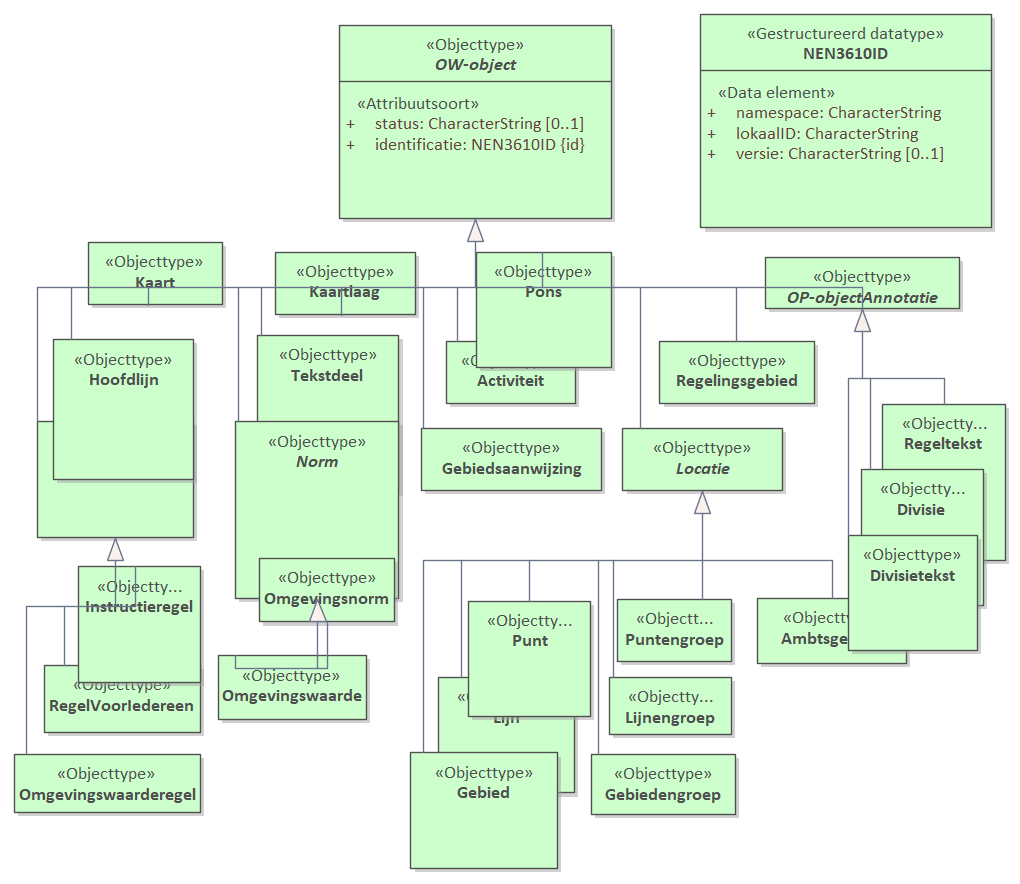
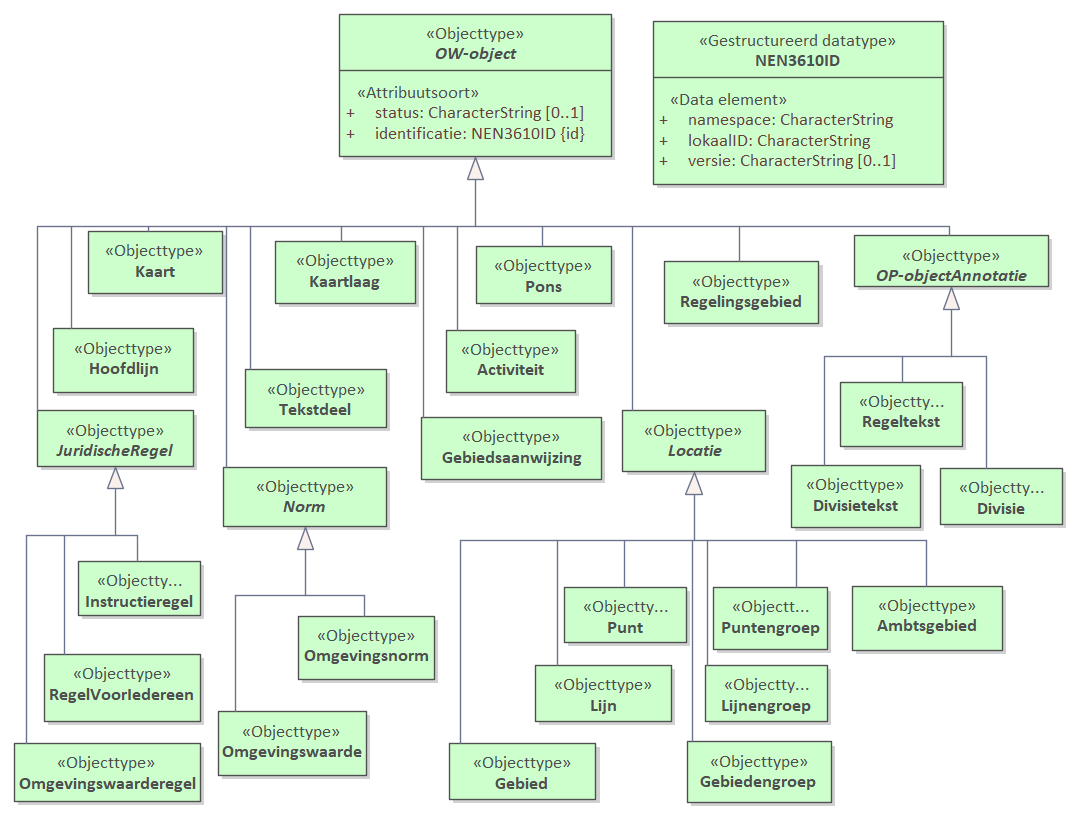
20200601_Oplevering

diff --git a/data/IMOW-cat.respec.html b/data/IMOW-cat.respec.html
@@ -328,7 +328,7 @@
             
             
             
-         </section></section><section id="global_package_OWobject"><h3>Domein   OW-object</h3><section id="EAID_97D11E5C_222E_4885_AD87_2F92616ED77A"><h4>   OW-object - overzicht</h4><div class="imageinfo overview"><figure class="uml-diagram"><img id="EAID_97D11E5C_222E_4885_AD87_2F92616ED77A" src="data/Images/EAID_97D11E5C_222E_4885_AD87_2F92616ED77A.png" usemap="#imagemap-EAID_97D11E5C_222E_4885_AD87_2F92616ED77A" alt="Diagram: Dit diagram toont alle OW-objecten inhet IMOW."><figcaption> ‒ Diagram: OW-object</figcaption></figure><map name="imagemap-EAID_97D11E5C_222E_4885_AD87_2F92616ED77A"><area shape="rect" alt="Divisietekst" coords="848,535,978,651" href="#global_class_Vrijetekststructuur_Divisietekst"><area shape="rect" alt="Divisie" coords="861,469,984,606" href="#global_class_Vrijetekststructuur_Divisie"><area shape="rect" alt="Regeltekst" coords="882,404,1006,561" href="#global_class_Artikelstructuur_Regeltekst"><area shape="rect" alt="OP-objectAnnotatie" coords="765,257,960,309" href="#global_class_OWobject_OPobjectAnnotatie"><area shape="rect" alt="Hoofdlijn" coords="53,339,194,480" href="#global_class_Vrijetekststructuur_Hoofdlijn"><area shape="rect" alt="NEN3610ID" coords="700,14,992,228" href="#global_class_OWobject_NEN3610ID"><area shape="rect" alt="Ambtsgebied" coords="757,598,907,664" href="#global_class_Locatie_Ambtsgebied"><area shape="rect" alt="Gebiedengroep" coords="591,754,736,815" href="#global_class_Locatie_Gebiedengroep"><area shape="rect" alt="Gebied" coords="410,752,558,869" href="#global_class_Locatie_Gebied"><area shape="rect" alt="Puntengroep" coords="617,599,732,662" href="#global_class_Locatie_Puntengroep"><area shape="rect" alt="Punt" coords="468,601,591,717" href="#global_class_Locatie_Punt"><area shape="rect" alt="Lijnengroep" coords="609,677,732,735" href="#global_class_Locatie_Lijnengroep"><area shape="rect" alt="Lijn" coords="438,677,575,793" href="#global_class_Locatie_Lijn"><area shape="rect" alt="Instructieregel" coords="78,566,201,683" href="#global_class_Artikelstructuur_Instructieregel"><area shape="rect" alt="Omgevingswaarde" coords="218,655,367,720" href="#global_class_Artikelstructuur_Omgevingswaarde"><area shape="rect" alt="Omgevingsnorm" coords="259,558,395,622" href="#global_class_Artikelstructuur_Omgevingsnorm"><area shape="rect" alt="Omgevingswaarderegel" coords="14,754,201,813" href="#global_class_Artikelstructuur_Omgevingswaarderegel"><area shape="rect" alt="RegelVoorIedereen" coords="44,665,201,733" href="#global_class_Artikelstructuur_RegelVoorIedereen"><area shape="rect" alt="Regelingsgebied" coords="659,341,815,404" href="#global_class_Artikelstructuur_Regelingsgebied"><area shape="rect" alt="Kaartlaag" coords="275,252,416,315" href="#global_class_Kaart_Kaartlaag"><area shape="rect" alt="Pons" coords="476,252,612,368" href="#global_class_Artikelstructuur_Pons"><area shape="rect" alt="Gebiedsaanwijzing" coords="421,428,602,491" href="#global_class_Artikelstructuur_Gebiedsaanwijzing"><area shape="rect" alt="Norm" coords="235,421,399,599" href="#global_class_Artikelstructuur_Norm"><area shape="rect" alt="Locatie" coords="622,428,783,491" href="#global_class_Locatie_Locatie"><area shape="rect" alt="Tekstdeel" coords="257,335,399,492" href="#global_class_Vrijetekststructuur_Tekstdeel"><area shape="rect" alt="Kaart" coords="88,242,223,305" href="#global_class_Kaart_Kaart"><area shape="rect" alt="Activiteit" coords="446,341,576,404" href="#global_class_Artikelstructuur_Activiteit"><area shape="rect" alt="JuridischeRegel" coords="37,421,194,538" href="#global_class_Artikelstructuur_JuridischeRegel"><area shape="rect" alt="OW-object" coords="339,25,612,219" href="#global_class_OWobject_OWobject"></map><p>
+         </section></section><section id="global_package_OWobject"><h3>Domein   OW-object</h3><section id="EAID_97D11E5C_222E_4885_AD87_2F92616ED77A"><h4>   OW-object - overzicht</h4><div class="imageinfo overview"><figure class="uml-diagram"><img id="EAID_97D11E5C_222E_4885_AD87_2F92616ED77A" src="data/Images/EAID_97D11E5C_222E_4885_AD87_2F92616ED77A.png" usemap="#imagemap-EAID_97D11E5C_222E_4885_AD87_2F92616ED77A" alt="Diagram: Dit diagram toont alle OW-objecten inhet IMOW."><figcaption> ‒ Diagram: OW-object</figcaption></figure><map name="imagemap-EAID_97D11E5C_222E_4885_AD87_2F92616ED77A"><area shape="rect" alt="Divisietekst" coords="791,465,921,528" href="#global_class_Vrijetekststructuur_Divisietekst"><area shape="rect" alt="Divisie" coords="940,468,1063,525" href="#global_class_Vrijetekststructuur_Divisie"><area shape="rect" alt="Regeltekst" coords="840,382,963,447" href="#global_class_Artikelstructuur_Regeltekst"><area shape="rect" alt="OP-objectAnnotatie" coords="854,235,1049,287" href="#global_class_OWobject_OPobjectAnnotatie"><area shape="rect" alt="NEN3610ID" coords="653,21,944,185" href="#global_class_OWobject_NEN3610ID"><area shape="rect" alt="Ambtsgebied" coords="852,586,1003,651" href="#global_class_Locatie_Ambtsgebied"><area shape="rect" alt="Gebiedengroep" coords="687,741,832,803" href="#global_class_Locatie_Gebiedengroep"><area shape="rect" alt="Gebied" coords="449,743,596,800" href="#global_class_Locatie_Gebied"><area shape="rect" alt="Puntengroep" coords="713,587,828,650" href="#global_class_Locatie_Puntengroep"><area shape="rect" alt="Punt" coords="564,587,687,643" href="#global_class_Locatie_Punt"><area shape="rect" alt="Lijnengroep" coords="705,665,828,722" href="#global_class_Locatie_Lijnengroep"><area shape="rect" alt="Lijn" coords="535,665,672,722" href="#global_class_Locatie_Lijn"><area shape="rect" alt="Instructieregel" coords="78,561,201,616" href="#global_class_Artikelstructuur_Instructieregel"><area shape="rect" alt="Omgevingswaarde" coords="218,711,367,776" href="#global_class_Artikelstructuur_Omgevingswaarde"><area shape="rect" alt="Omgevingsnorm" coords="298,616,435,680" href="#global_class_Artikelstructuur_Omgevingsnorm"><area shape="rect" alt="Omgevingswaarderegel" coords="14,743,201,802" href="#global_class_Artikelstructuur_Omgevingswaarderegel"><area shape="rect" alt="RegelVoorIedereen" coords="44,654,201,722" href="#global_class_Artikelstructuur_RegelVoorIedereen"><area shape="rect" alt="Regelingsgebied" coords="664,261,819,324" href="#global_class_Artikelstructuur_Regelingsgebied"><area shape="rect" alt="Kaartlaag" coords="275,241,416,304" href="#global_class_Kaart_Kaartlaag"><area shape="rect" alt="Pons" coords="476,246,612,304" href="#global_class_Artikelstructuur_Pons"><area shape="rect" alt="Gebiedsaanwijzing" coords="421,417,602,480" href="#global_class_Artikelstructuur_Gebiedsaanwijzing"><area shape="rect" alt="Norm" coords="223,467,387,527" href="#global_class_Artikelstructuur_Norm"><area shape="rect" alt="Locatie" coords="622,410,766,472" href="#global_class_Locatie_Locatie"><area shape="rect" alt="Tekstdeel" coords="245,369,387,428" href="#global_class_Vrijetekststructuur_Tekstdeel"><area shape="rect" alt="Hoofdlijn" coords="53,328,194,393" href="#global_class_Vrijetekststructuur_Hoofdlijn"><area shape="rect" alt="Kaart" coords="88,231,223,294" href="#global_class_Kaart_Kaart"><area shape="rect" alt="Activiteit" coords="446,330,576,393" href="#global_class_Artikelstructuur_Activiteit"><area shape="rect" alt="JuridischeRegel" coords="37,410,194,467" href="#global_class_Artikelstructuur_JuridischeRegel"><area shape="rect" alt="OW-object" coords="339,14,612,157" href="#global_class_OWobject_OWobject"></map><p>
                         <p>Dit diagram toont alle OW-objecten inhet IMOW.</p>
                      </p></div></section><section id="EAID_FE9C9DCE_C253_4f81_8D60_DB454C471FF5"><h4>   OP-objectAnnotatie - overzicht</h4><div class="imageinfo overview"><figure class="uml-diagram"><img id="EAID_FE9C9DCE_C253_4f81_8D60_DB454C471FF5" src="data/Images/EAID_FE9C9DCE_C253_4f81_8D60_DB454C471FF5.png" usemap="#imagemap-EAID_FE9C9DCE_C253_4f81_8D60_DB454C471FF5" alt="Diagram: OP-objectAnnotatie is de koppelklasse tussen de OW-objecten behorend bij een regeling en de STOP tekstelementen in die regeling. Hiertoe heeft een OW-objectAnnotatie een 'identificatie' die volgens de NEN3610 systematiek wordt uitgedeeld en een 'wId' die verwijst naar het betreffende tekstelement in STOP. Momenteel zijn er vier types tekstelement in een STOP document die geannoteerd kunnen worden: Artikel, Lid, Divisietekst en Divisie waarbij Artikel en Lid beide met een Regeltekst worden gekoppeld."><figcaption> ‒ Diagram: OP-objectAnnotatie</figcaption></figure><map name="imagemap-EAID_FE9C9DCE_C253_4f81_8D60_DB454C471FF5"><area shape="rect" alt="Divisie" coords="405,486,575,602" href="#global_class_Vrijetekststructuur_Divisie"><area shape="rect" alt="OW-object" coords="168,14,445,208" href="#global_class_OWobject_OWobject"><area shape="rect" alt="Divisietekst" coords="205,484,375,601" href="#global_class_Vrijetekststructuur_Divisietekst"><area shape="rect" alt="Regeltekst" coords="14,484,183,642" href="#global_class_Artikelstructuur_Regeltekst"><area shape="rect" alt="OP-objectAnnotatie" coords="182,261,399,376" href="#global_class_OWobject_OPobjectAnnotatie"></map><p>
                         <p>OP-objectAnnotatie is de koppelklasse tussen de OW-objecten behorend bij een regeling en de STOP  tekstelementen in die regeling. Hiertoe heeft een OW-objectAnnotatie een 'identificatie' die volgens de NEN3610 systematiek wordt uitgedeeld en een 'wId' die verwijst naar het betreffende tekstelement in STOP. </p>
@@ -524,7 +524,7 @@
                </section>
             </section>
             
-         </section></section><section id="global_package_Artikelstructuur"><h3>Domein   Artikelstructuur</h3><section id="EAID_C66AEA1E_A7E2_4ab7_BEAA_00DD0F75A4B2"><h4>   Artikelstructuur - overzicht</h4><div class="imageinfo overview"><figure class="uml-diagram"><img id="EAID_C66AEA1E_A7E2_4ab7_BEAA_00DD0F75A4B2" src="data/Images/EAID_C66AEA1E_A7E2_4ab7_BEAA_00DD0F75A4B2.png" usemap="#imagemap-EAID_C66AEA1E_A7E2_4ab7_BEAA_00DD0F75A4B2" alt="Diagram: De tekst van een regeling Regeling met artikelstructuur bevat een geneste structuur die onder andere Hoofdstukken, Afdelingen, Paragrafen en Subparagrafen kan bevatten. Op het diepste niveau zit de inhoudelijk informatie van de regeling, die inhoud zit in artikelen. Soms is een artikel opgesplitst in leden. In dat geval zit de inhoud in de leden. In de artikelstructuur zitten de annotaties op de artikelen of leden in de vorm van één of meer juridische regels. Een juridische regel is de in een annotatie opgenomen informatie over een regel met juridische werkingskracht. Een juridische regel heeft drie subtypen (RegelVoorIedereen, Instructieregel, Omgevingswaarderegel) die allen specifieke eigenschappen bevatten. Daarnaast zijn er de domeinspecifieke objecten Activiteit voor het annoteren van een activiteit, Gebiedsaanwijzing om een benoemd gebied te duiden, Omgevingswaarde om een gewenste of toelaatbare omgevingswaarde aan een Locatie toe te kennen en een Omgevingsnorm om een waarde als norm aan een Locatie te koppelen. Het Pons-object wordt gebruikt om aan te geven dat een gebied volledig door het permanente deel van het omgevingsplan is ingevuld en niet meer door de ruimtelijke plannen o.b.v. Wro en/of Chw die onderdeel zijn van het tijdelijke deel van het omgevingsplan. Dit kan alleen gebruikt worden bij een omgevingsplan."><figcaption> ‒ Diagram: Artikelstructuur</figcaption></figure><map name="imagemap-EAID_C66AEA1E_A7E2_4ab7_BEAA_00DD0F75A4B2"><area shape="rect" alt="OP-objectAnnotatie" coords="208,14,414,167" href="#global_class_OWobject_OPobjectAnnotatie"><area shape="rect" alt="Pons" coords="190,1480,360,1561" href="#global_class_Artikelstructuur_Pons"><area shape="rect" alt="Regelingsgebied" coords="190,1375,360,1454" href="#global_class_Artikelstructuur_Regelingsgebied"><area shape="rect" alt="ActiviteitLocatieaanduiding" coords="160,735,596,891" href="#global_class_Artikelstructuur_ActiviteitLocatieaanduiding"><area shape="rect" alt="Gebiedsaanwijzing" coords="491,945,839,1146" href="#global_class_Artikelstructuur_Gebiedsaanwijzing"><area shape="rect" alt="Normwaarde" coords="1201,1211,1560,1487" href="#global_class_Artikelstructuur_Normwaarde"><area shape="rect" alt="Norm" coords="1192,629,1499,977" href="#global_class_Artikelstructuur_Norm"><area shape="rect" alt="Omgevingswaarde" coords="1315,1058,1588,1194" href="#global_class_Artikelstructuur_Omgevingswaarde"><area shape="rect" alt="Omgevingsnorm" coords="1007,1063,1268,1200" href="#global_class_Artikelstructuur_Omgevingsnorm"><area shape="rect" alt="Activiteit" coords="72,454,305,621" href="#global_class_Artikelstructuur_Activiteit"><area shape="rect" alt="Locatie" coords="770,1401,1030,1549" href="#global_class_Locatie_Locatie"><area shape="rect" alt="RegelVoorIedereen" coords="457,534,661,601" href="#global_class_Artikelstructuur_RegelVoorIedereen"><area shape="rect" alt="Instructieregel" coords="737,534,1167,747" href="#global_class_Artikelstructuur_Instructieregel"><area shape="rect" alt="Omgevingswaarderegel" coords="1365,534,1599,609" href="#global_class_Artikelstructuur_Omgevingswaarderegel"><area shape="rect" alt="JuridischeRegel" coords="822,185,1082,425" href="#global_class_Artikelstructuur_JuridischeRegel"><area shape="rect" alt="Regeltekst" coords="207,218,416,391" href="#global_class_Artikelstructuur_Regeltekst"></map><p>
+         </section></section><section id="global_package_Artikelstructuur"><h3>Domein   Artikelstructuur</h3><section id="EAID_C66AEA1E_A7E2_4ab7_BEAA_00DD0F75A4B2"><h4>   Artikelstructuur - overzicht</h4><div class="imageinfo overview"><figure class="uml-diagram"><img id="EAID_C66AEA1E_A7E2_4ab7_BEAA_00DD0F75A4B2" src="data/Images/EAID_C66AEA1E_A7E2_4ab7_BEAA_00DD0F75A4B2.png" usemap="#imagemap-EAID_C66AEA1E_A7E2_4ab7_BEAA_00DD0F75A4B2" alt="Diagram: De tekst van een regeling Regeling met artikelstructuur bevat een geneste structuur die onder andere Hoofdstukken, Afdelingen, Paragrafen en Subparagrafen kan bevatten. Op het diepste niveau zit de inhoudelijk informatie van de regeling, die inhoud zit in artikelen. Soms is een artikel opgesplitst in leden. In dat geval zit de inhoud in de leden. In de artikelstructuur zitten de annotaties op de artikelen of leden in de vorm van één of meer juridische regels. Een juridische regel is de in een annotatie opgenomen informatie over een regel met juridische werkingskracht. Een juridische regel heeft drie subtypen (RegelVoorIedereen, Instructieregel, Omgevingswaarderegel) die allen specifieke eigenschappen bevatten. Daarnaast zijn er de domeinspecifieke objecten Activiteit voor het annoteren van een activiteit, Gebiedsaanwijzing om een benoemd gebied te duiden, Omgevingswaarde om een gewenste of toelaatbare omgevingswaarde aan een Locatie toe te kennen en een Omgevingsnorm om een waarde als norm aan een Locatie te koppelen. Het Pons-object wordt gebruikt om aan te geven dat een gebied volledig door het permanente deel van het omgevingsplan is ingevuld en niet meer door de ruimtelijke plannen o.b.v. Wro en/of Chw die onderdeel zijn van het tijdelijke deel van het omgevingsplan. Dit kan alleen gebruikt worden bij een omgevingsplan."><figcaption> ‒ Diagram: Artikelstructuur</figcaption></figure><map name="imagemap-EAID_C66AEA1E_A7E2_4ab7_BEAA_00DD0F75A4B2"><area shape="rect" alt="OP-objectAnnotatie" coords="208,14,414,167" href="#global_class_OWobject_OPobjectAnnotatie"><area shape="rect" alt="Regelingsgebied" coords="190,1375,360,1454" href="#global_class_Artikelstructuur_Regelingsgebied"><area shape="rect" alt="ActiviteitLocatieaanduiding" coords="160,735,596,891" href="#global_class_Artikelstructuur_ActiviteitLocatieaanduiding"><area shape="rect" alt="Gebiedsaanwijzing" coords="491,945,839,1146" href="#global_class_Artikelstructuur_Gebiedsaanwijzing"><area shape="rect" alt="Normwaarde" coords="1201,1211,1560,1487" href="#global_class_Artikelstructuur_Normwaarde"><area shape="rect" alt="Norm" coords="1192,629,1499,977" href="#global_class_Artikelstructuur_Norm"><area shape="rect" alt="Omgevingswaarde" coords="1315,1058,1588,1194" href="#global_class_Artikelstructuur_Omgevingswaarde"><area shape="rect" alt="Omgevingsnorm" coords="1007,1063,1268,1200" href="#global_class_Artikelstructuur_Omgevingsnorm"><area shape="rect" alt="Activiteit" coords="72,454,305,621" href="#global_class_Artikelstructuur_Activiteit"><area shape="rect" alt="Locatie" coords="770,1401,1030,1549" href="#global_class_Locatie_Locatie"><area shape="rect" alt="RegelVoorIedereen" coords="457,534,661,601" href="#global_class_Artikelstructuur_RegelVoorIedereen"><area shape="rect" alt="Pons" coords="190,1335,360,1476" href="#global_class_Artikelstructuur_Pons"><area shape="rect" alt="Instructieregel" coords="737,534,1167,747" href="#global_class_Artikelstructuur_Instructieregel"><area shape="rect" alt="Omgevingswaarderegel" coords="1365,534,1599,609" href="#global_class_Artikelstructuur_Omgevingswaarderegel"><area shape="rect" alt="JuridischeRegel" coords="822,185,1082,425" href="#global_class_Artikelstructuur_JuridischeRegel"><area shape="rect" alt="Regeltekst" coords="207,218,416,391" href="#global_class_Artikelstructuur_Regeltekst"></map><p>
                         <p></p>
                         <p>De tekst van een regeling Regeling met artikelstructuur bevat een geneste structuur die onder andere Hoofdstukken, Afdelingen, Paragrafen en Subparagrafen kan bevatten. Op het diepste niveau zit de inhoudelijk informatie van de regeling, die inhoud zit in artikelen. Soms is een artikel opgesplitst in leden. In dat geval zit de inhoud in de leden.</p>
                         <p></p>
@@ -1113,9 +1113,9 @@
                <h6>Overzicht constraints  </h6>
                   <table style="width: 100%;"><colgroup style="width: 30%;"></colgroup><colgroup style="width: 70%;"></colgroup><tbody><tr><th>Naam</th><th>Uitleg</th></tr><tr><th>
                            <a class="link" href="#detail_d44736e8856">
-                              OZON0104
+                              TPOD0104
                            </a>
-                        </th><td></td></tr></tbody></table>
+                        </th><td> Bij een Regeling hoort ten hoogste &amp;#233;&amp;#233;n Pons. </td></tr></tbody></table>
                
             </section>
             <section id="global_class_Artikelstructuur_Gebiedsaanwijzing"><h5>   Gebiedsaanwijzing</h5>
@@ -1556,8 +1556,8 @@
                               <a class="link" href="#global_class_Locatie_Locatie">Locatie</a>
                            </td></tr><tr><th>Indicatie materiële historie</th><td>Nee</td></tr><tr><th>Kardinaliteit</th><td>1</td></tr><tr><th>Mogelijk geen waarde</th><td>Nee</td></tr></tbody></table>
                   </div>
-                  <div class="deepheader" id="detail_d44736e8856"><h7>Constraint details  <a href="#global_class_Artikelstructuur_Pons">Pons</a> OZON0104</h7>
-                     <table style="width: 100%;"><colgroup style="width: 30%;"></colgroup><colgroup style="width: 70%;"></colgroup><tbody><tr><th>OCL</th><td>Bij een Regeling hoort ten hoogste &amp;#233;&amp;#233;n Pons.</td></tr></tbody></table>
+                  <div class="deepheader" id="detail_d44736e8856"><h7>Constraint details  <a href="#global_class_Artikelstructuur_Pons">Pons</a> TPOD0104</h7>
+                     <table style="width: 100%;"><colgroup style="width: 30%;"></colgroup><colgroup style="width: 70%;"></colgroup><tbody><tr><th>Natuurlijke taal</th><td> Bij een Regeling hoort ten hoogste &amp;#233;&amp;#233;n Pons. </td></tr></tbody></table>
                   </div>
                </section>
                <section id="detail_class_Artikelstructuur_Gebiedsaanwijzing"><h6>   Gebiedsaanwijzing</h6>
